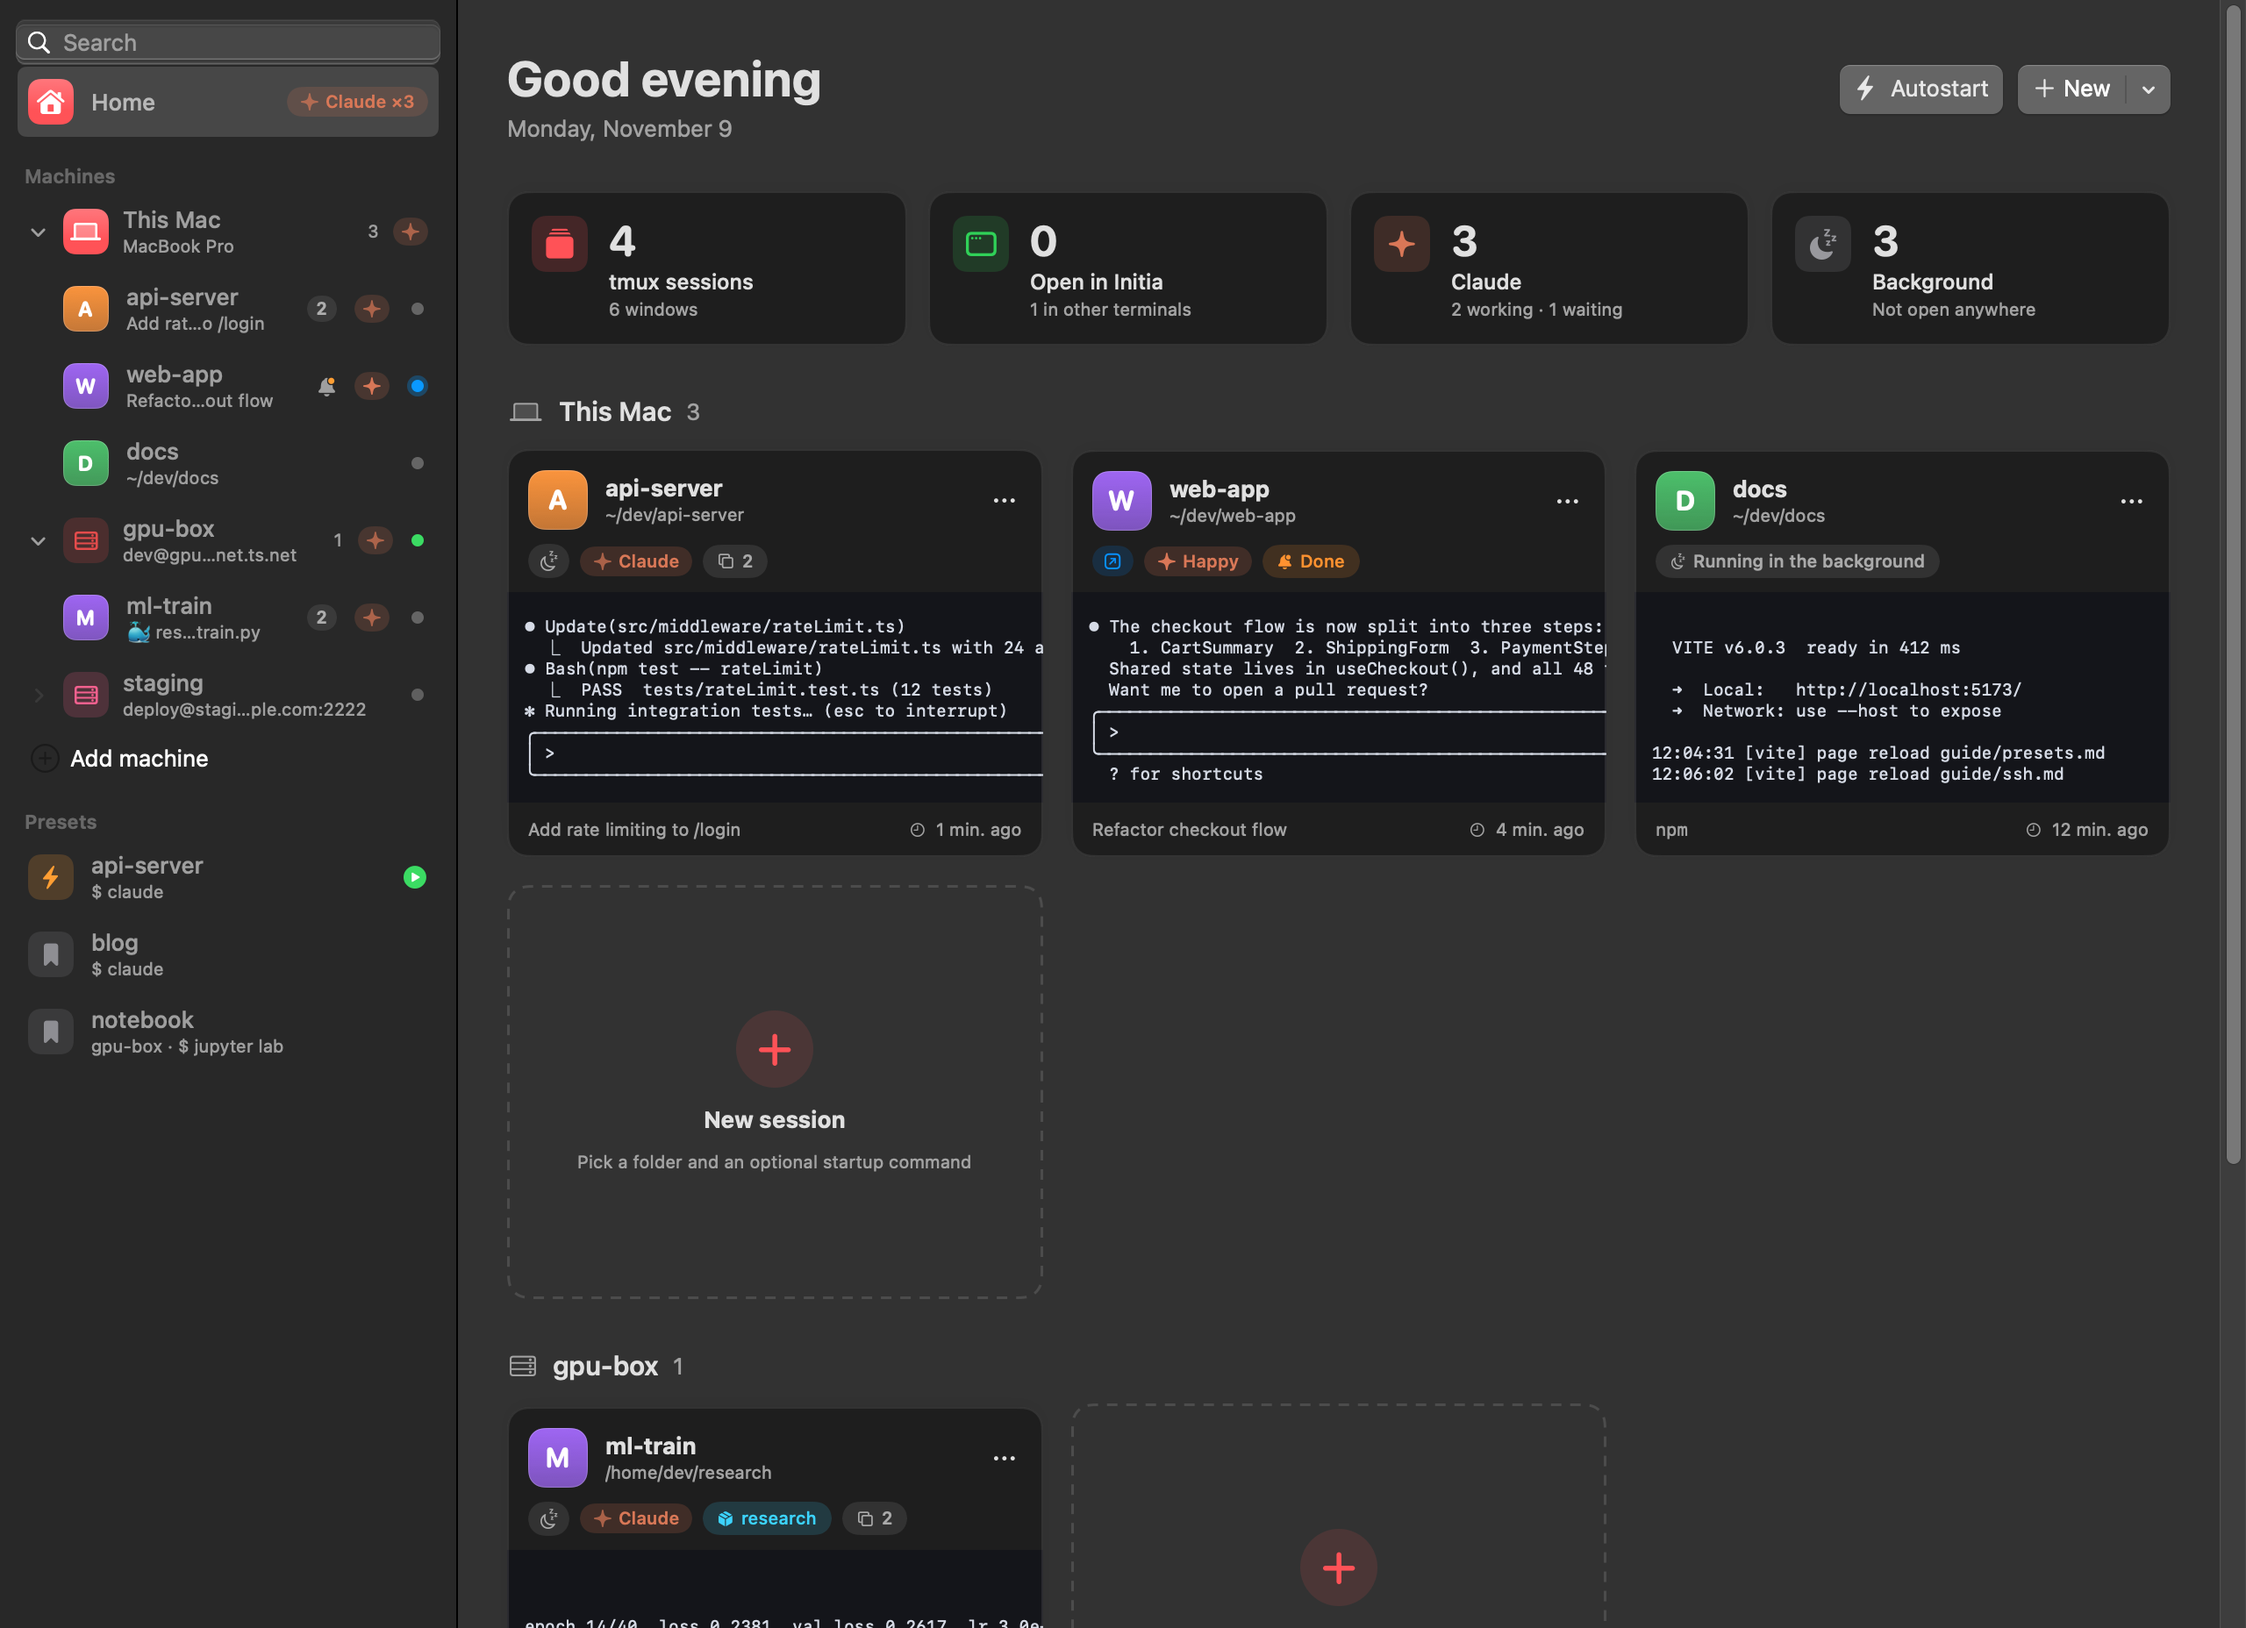
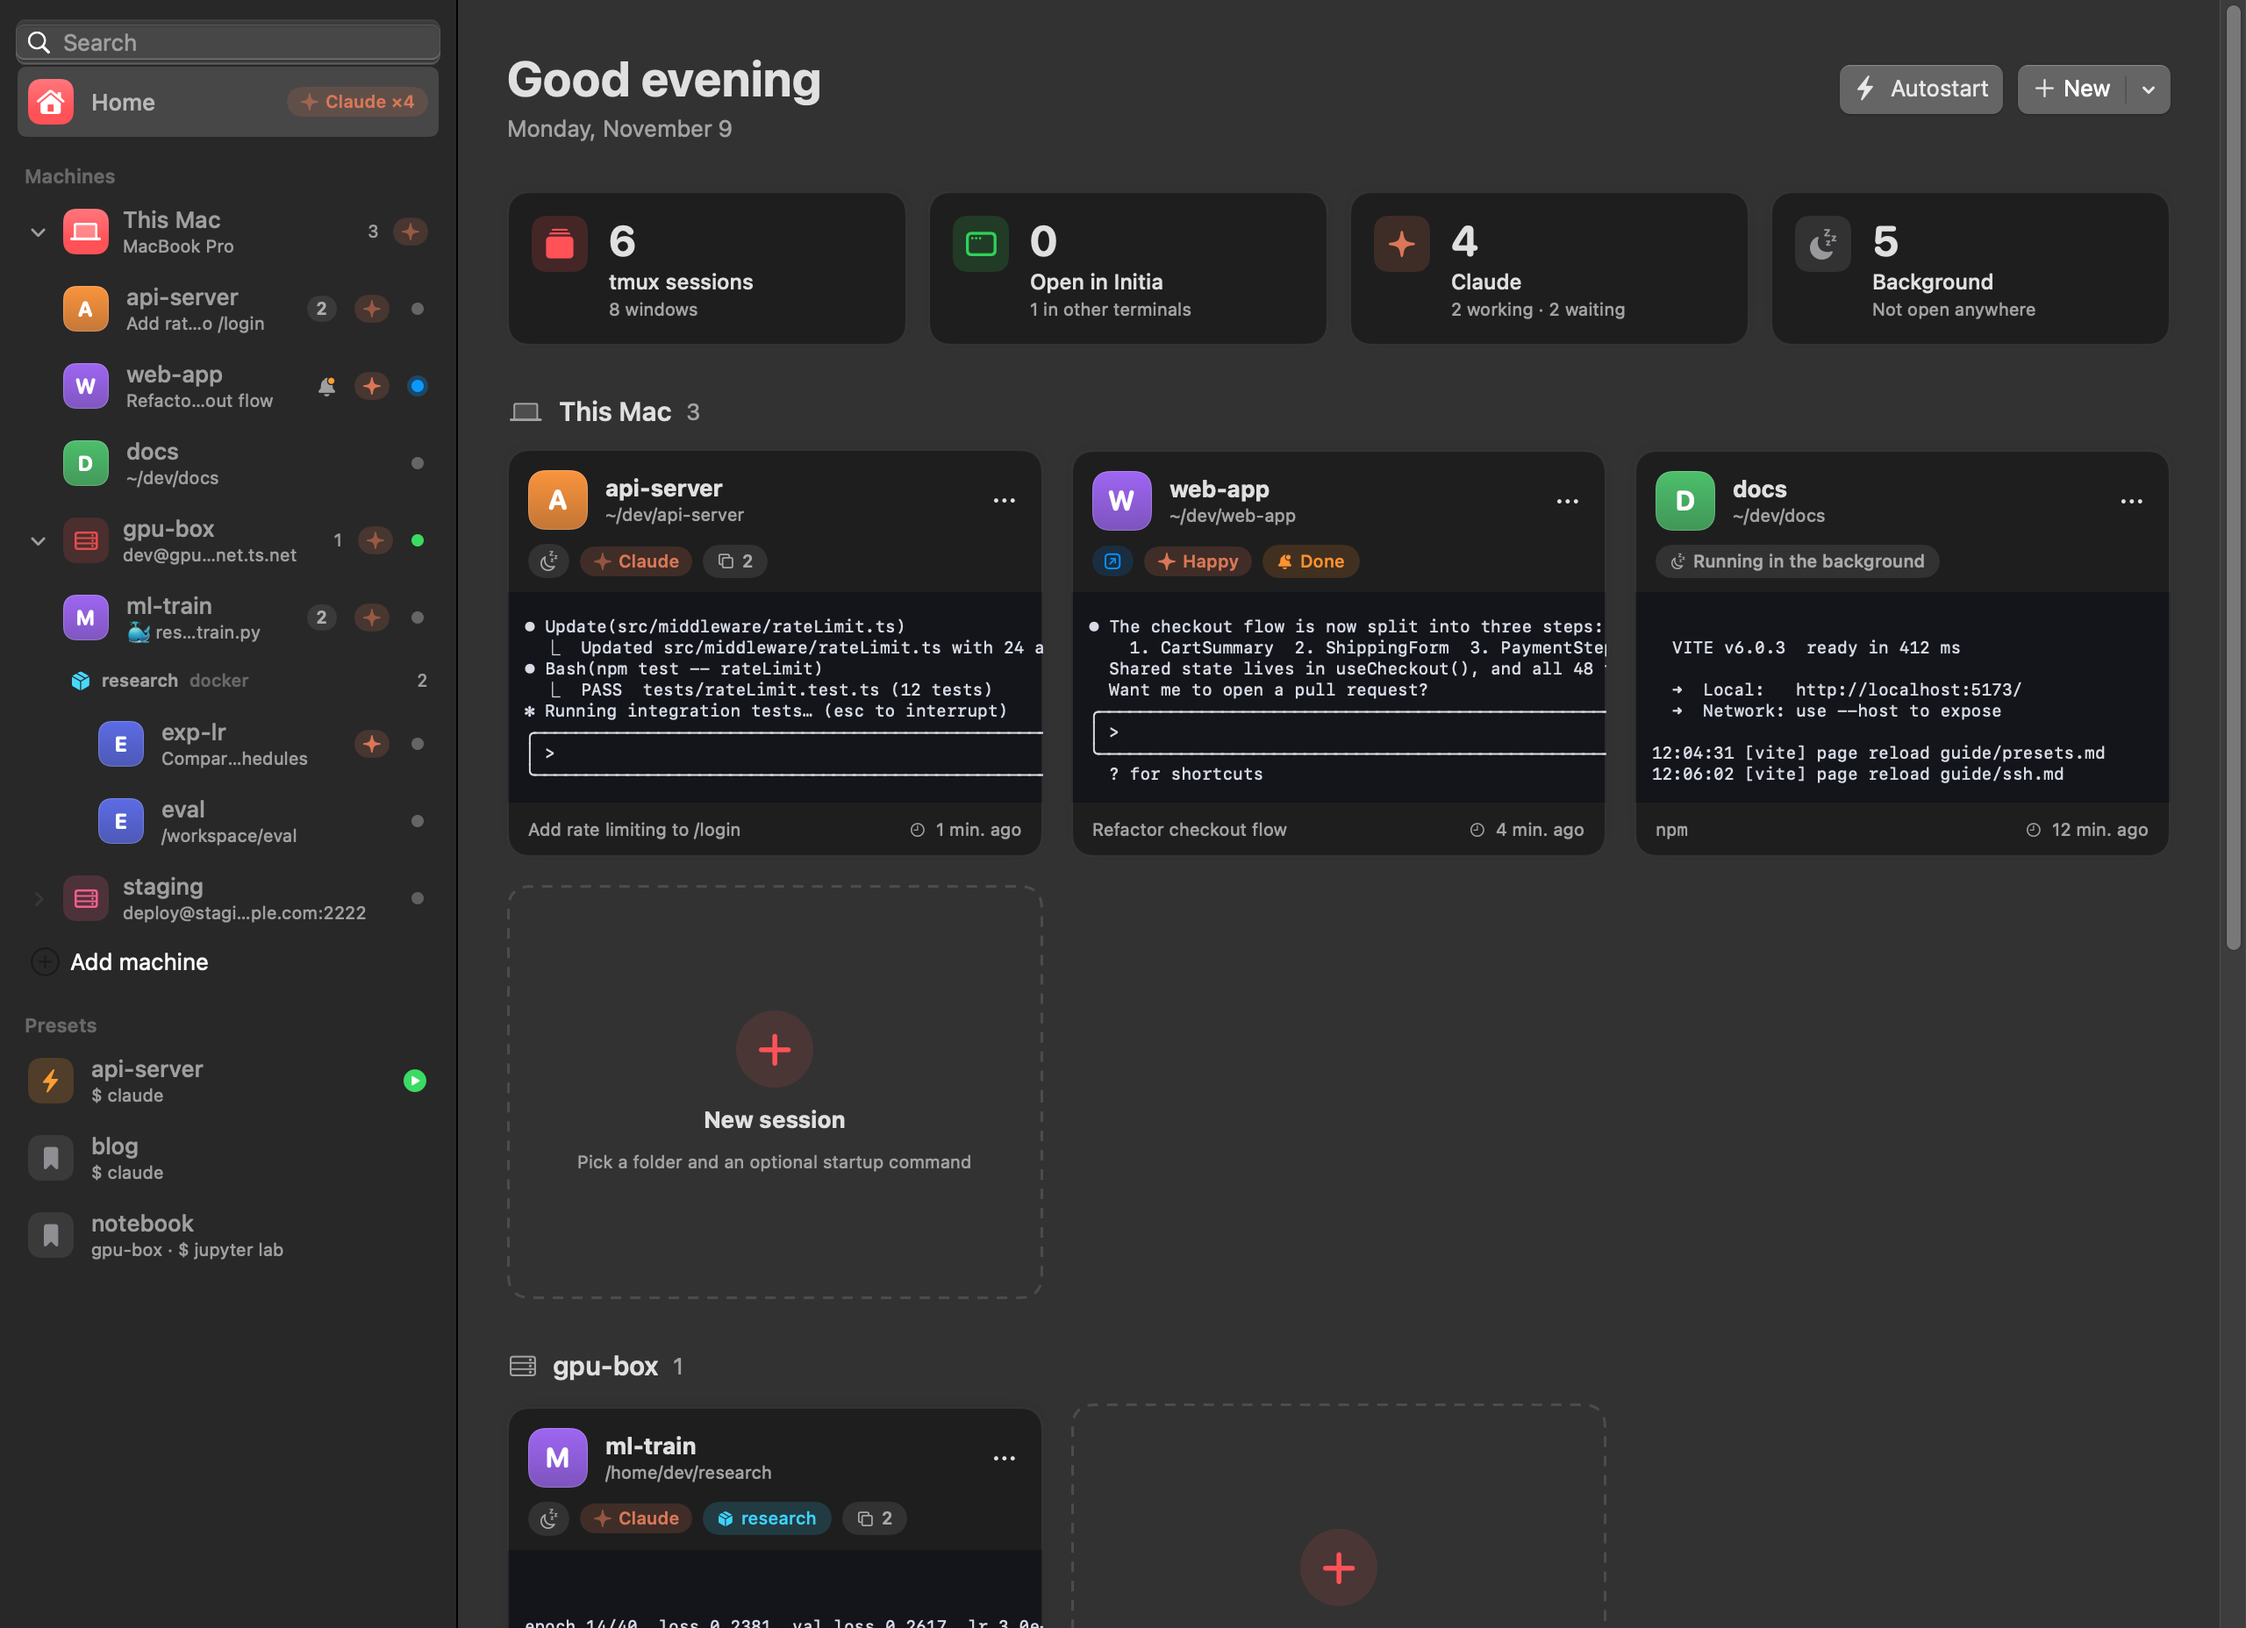
Initia 0.6.8-beta

diff --git a/README.md b/README.md
@@ -44,10 +44,11 @@ Initia is the app I wanted for that:
 ## Features
 
 - **Home**: a start screen with a card for every session, live previews, and a summary of what's running
-- **Built-in terminal**: open any tmux session in a real terminal inside Initia, with a tab for each one. Closing a tab only detaches. Plain terminals without tmux work too (⌘T)
+- **Built-in terminal**: open any tmux session in a real terminal inside Initia, with a tab for each one. Plain terminals without tmux work too (⌘T)
+- **Clear close actions**: Close window (Ctrl-b d) keeps the session running, Quit Claude (/exit) ends only Claude, End tmux session ends it all
 - **Claude Code aware**: see which sessions run Claude (or `happy claude`) and whether it is working or waiting, even inside a docker container. Get a notification when Claude finishes or hits its usage limit (with the reset time), and quit it cleanly with **Exit** (`/exit`, then end the session)
 - **Machines**: this Mac and your `~/.ssh/config` machines side by side in the sidebar. Connect (key or password) to see and open each machine's tmux sessions, and add or edit machines in the app. Initia keeps one SSH session per machine, so your server sees a single login
-- **Docker containers**: keep tmux on the server and work inside a container. A session or preset can name a container, and Initia runs `docker exec` into it for you (with your folder and startup command). Each machine page lists its running containers, and sessions show which container they are in
+- **Docker containers**: keep tmux on the server and work inside a container. A session or preset can name a container, and Initia runs `docker exec` into it for you (with your folder and startup command). Initia also finds the tmux sessions running *inside* each container and opens them with `docker exec -it <container> tmux attach`. Each machine page lists its running containers
 - **Snippets**: one-click buttons under the terminal that type text for you (`/clear`, `/compact`, …)
 - **Manage tmux**: create sessions; rename sessions and windows; create and close windows
 - **Opens in Initia by default**, and still one click away in iTerm2, Terminal, cmux, Ghostty, WezTerm, kitty or Alacritty

diff --git a/CHANGELOG.md b/CHANGELOG.md
@@ -1,5 +1,18 @@
 # Changelog
 
+## 0.6.8-beta
+
+### New: tmux inside docker containers
+
+- Initia now also reads the tmux sessions running **inside** each docker container on a machine (this Mac or over SSH). They appear under the machine as "🐳 container" with their sessions, on Home, and on the machine page, with live previews and Claude detection
+- Open one and Initia runs `docker exec -it <container> tmux attach -t <session>` in its own terminal. Notifications, Exit, rename and the other session actions work the same way
+- Container tmux is checked every 15 seconds over the machine's existing SSH session, so it adds no logins
+
+### Changes
+
+- **Clearer close actions**, each named after what it does: **Close window (Ctrl-b d)** closes only Initia's tab and keeps the tmux session running, **Quit Claude (/exit)** ends only Claude, and **End tmux session…** ends the session (quitting Claude with /exit first). There is no longer a one-click default, so nothing ends by accident
+- Container buttons show the exact command: **docker exec** opens a shell without tmux, **tmux + docker exec** starts a tmux session on the machine that enters the container
+
 ## 0.6.7-beta
 
 ### New: Claude usage limit
